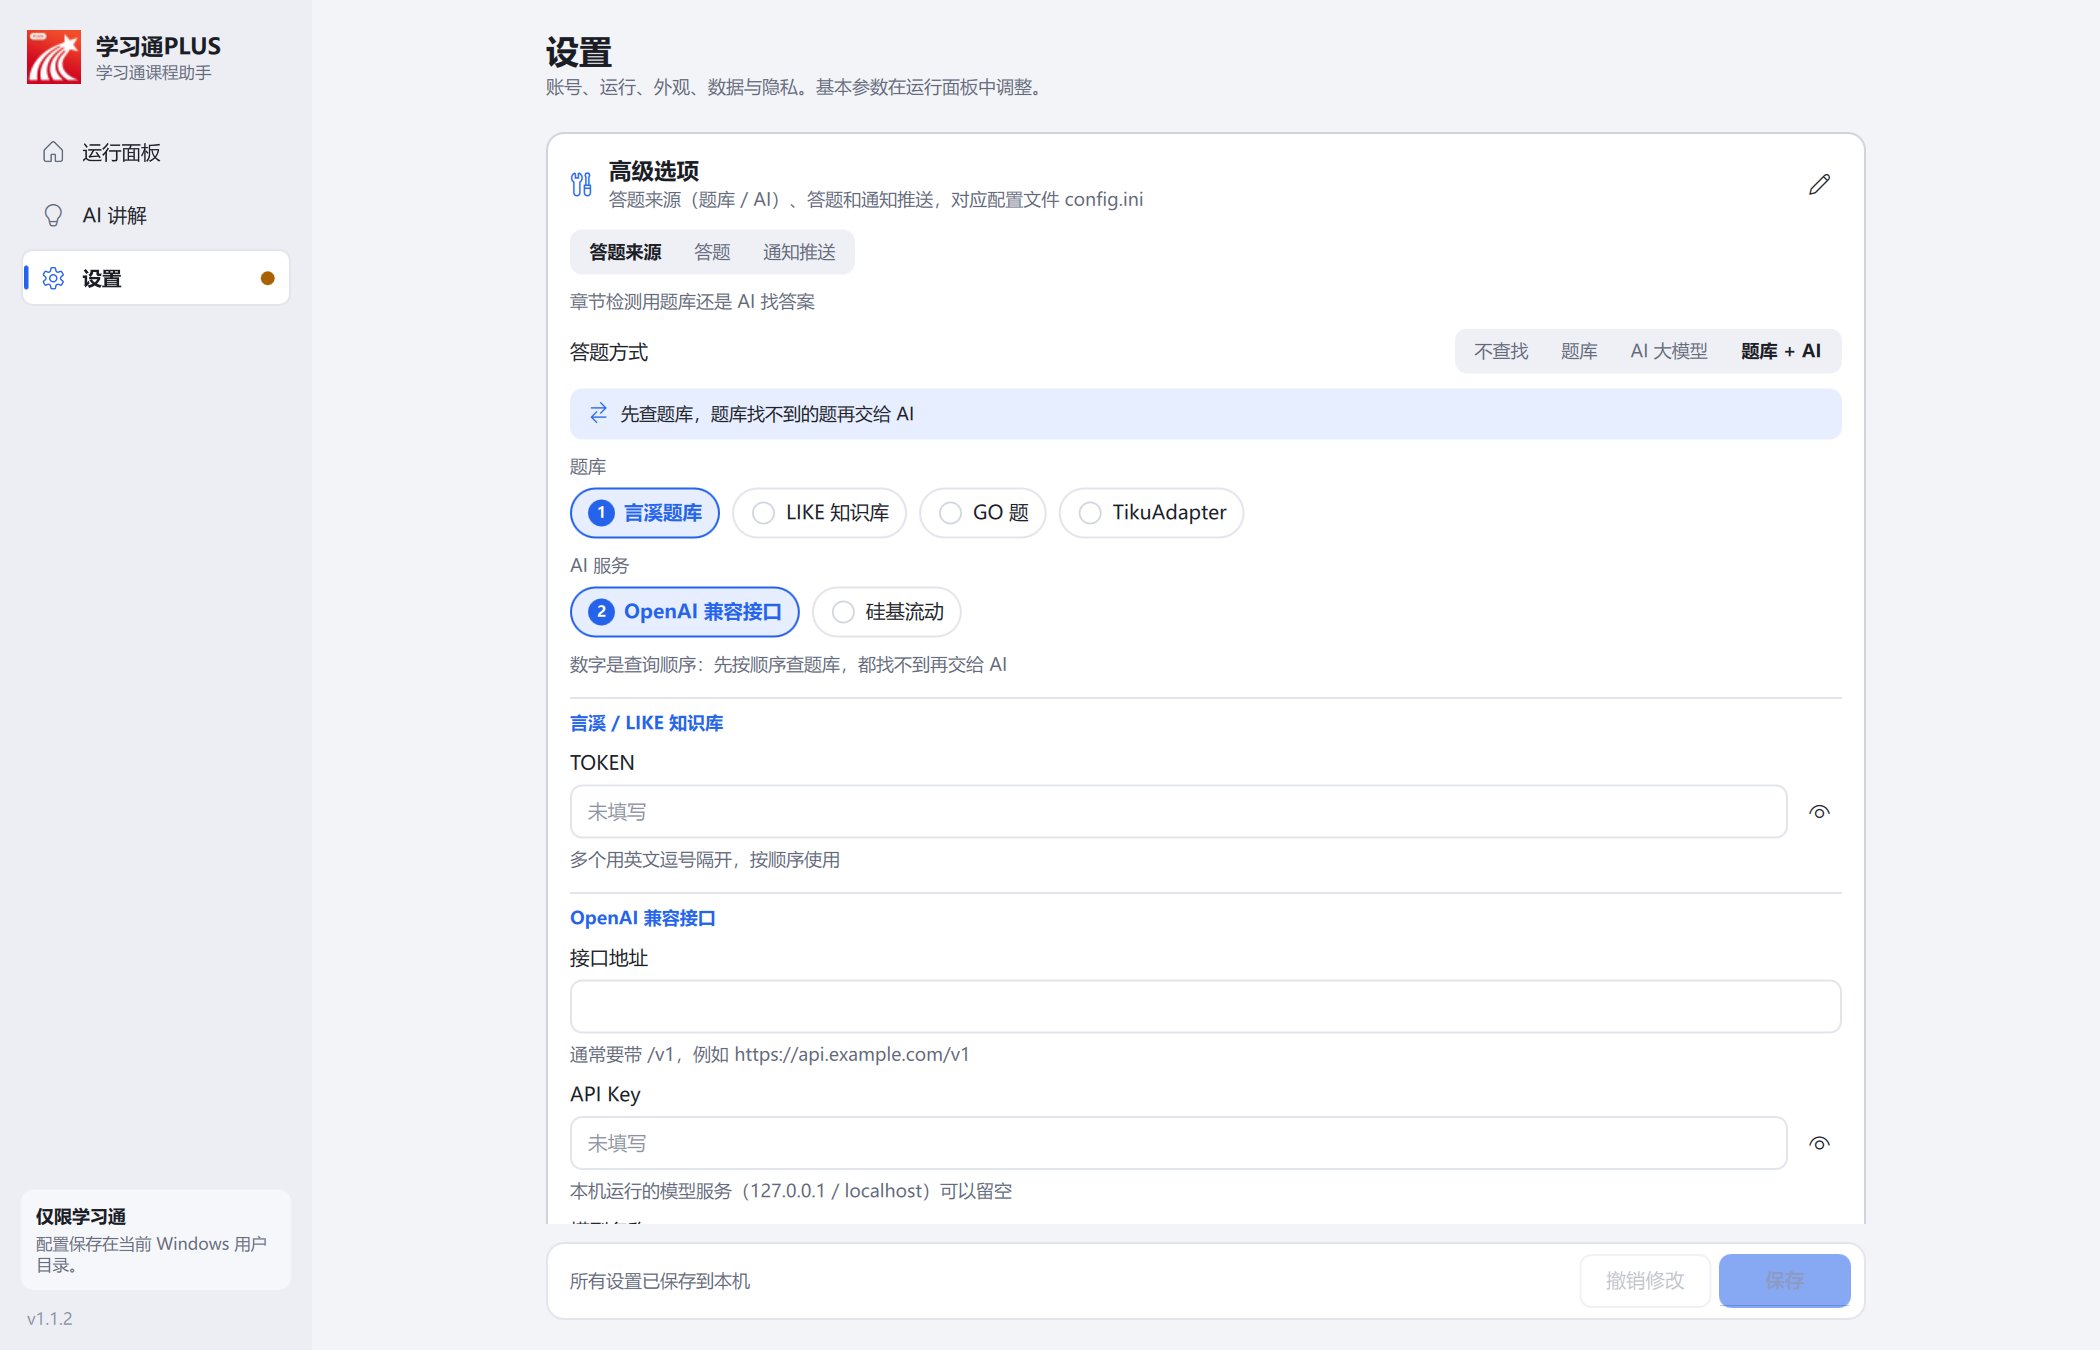
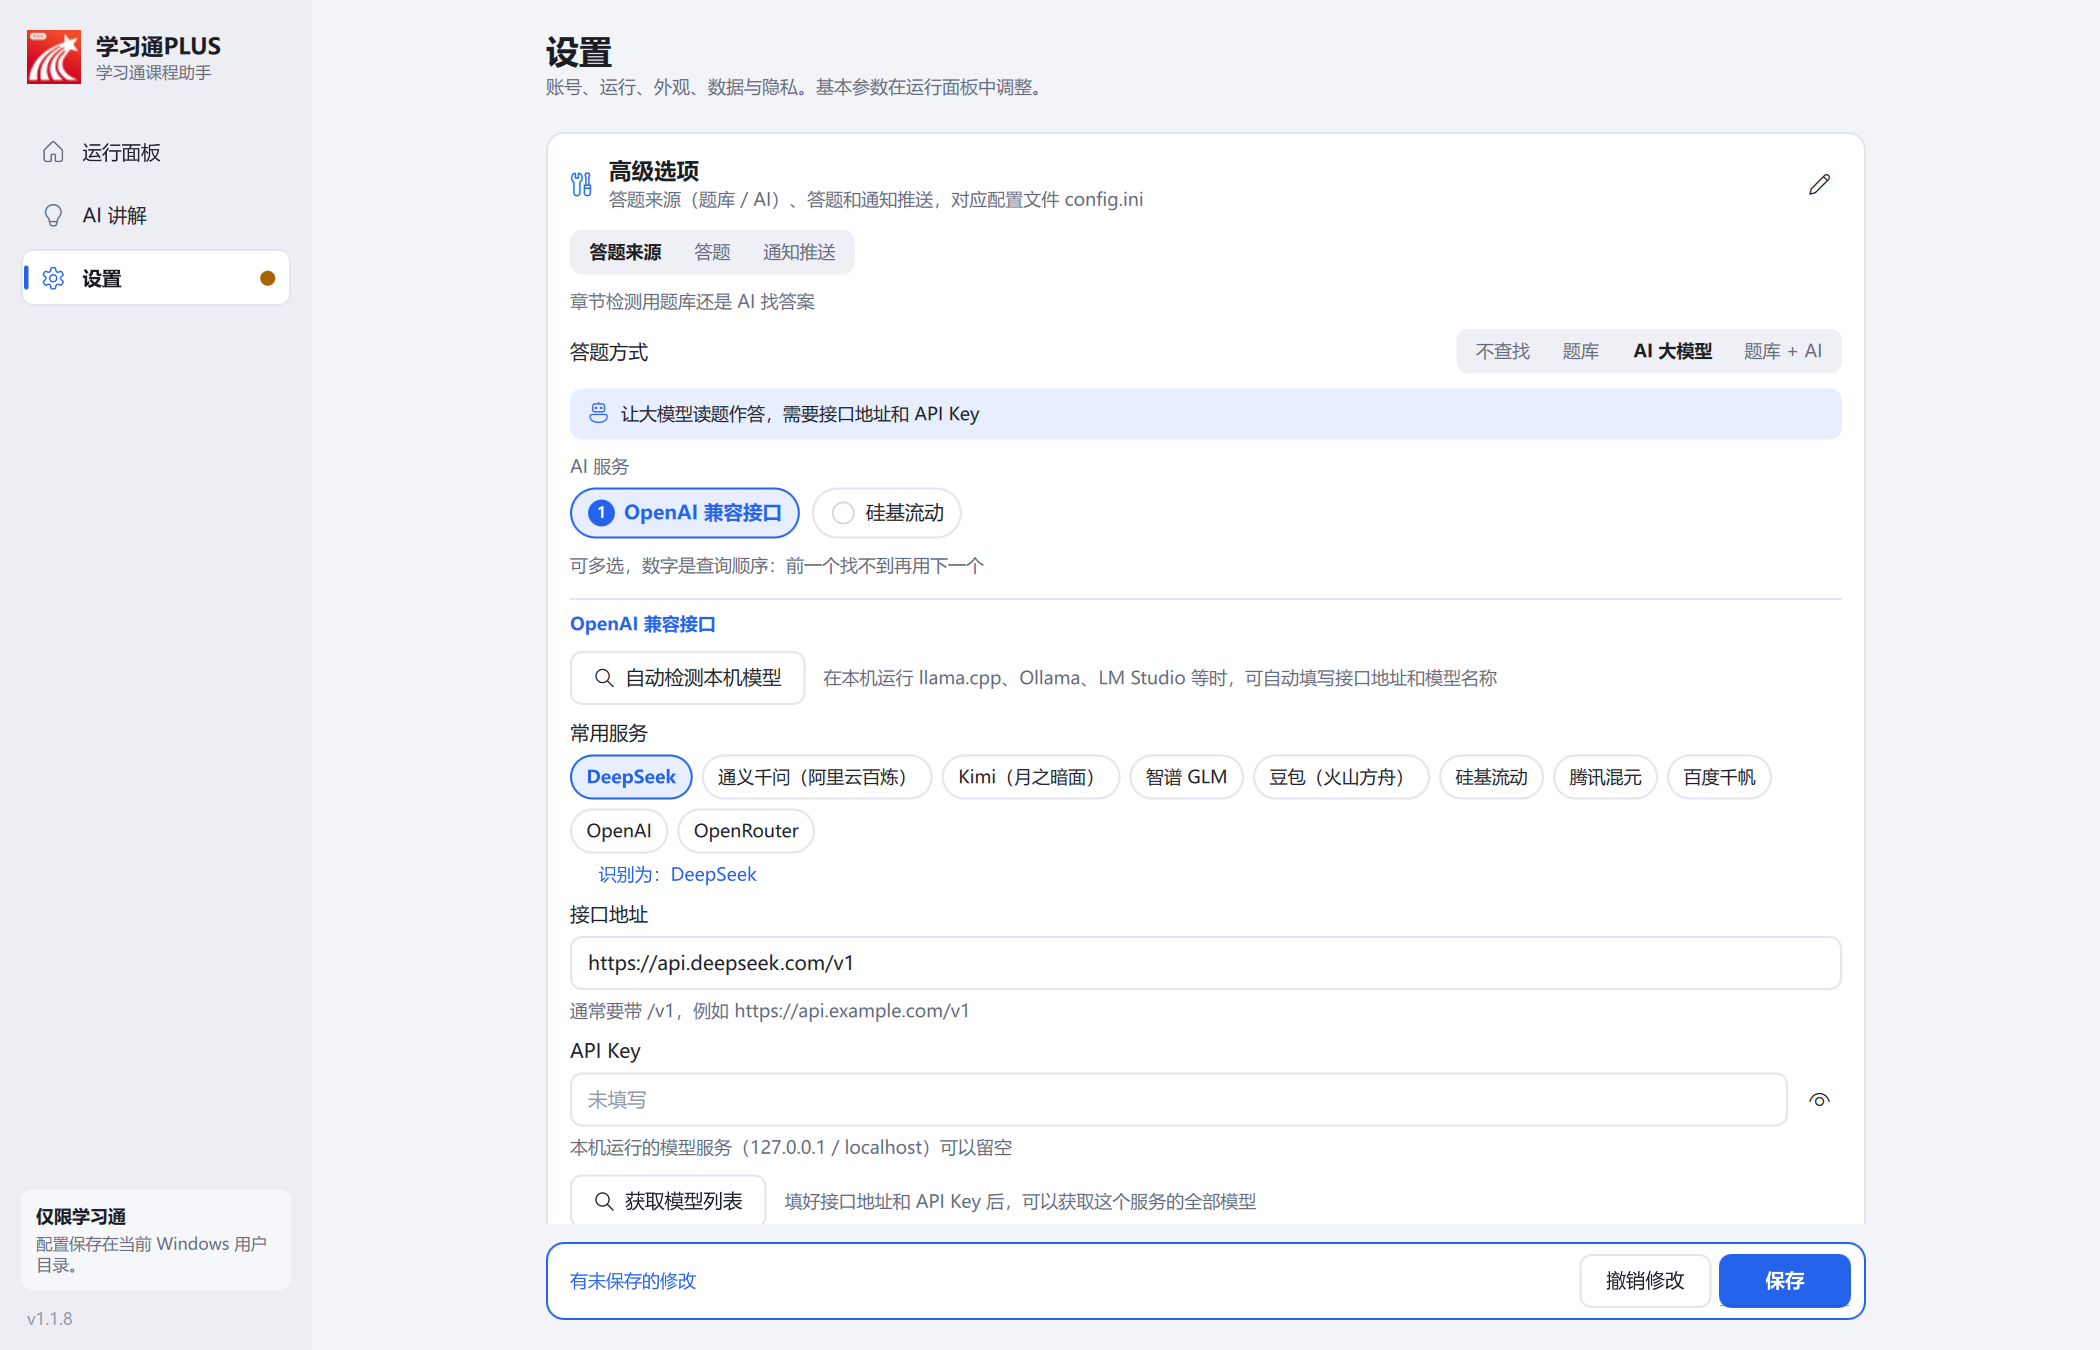
README: homepage intro and usage for 1.1.9
- Intro: everything is configured in the app / first-run guide; AI can be
  a local model (auto-detected) or a cloud provider (recognised, with a
  model list).
- Features: preview follows the task (resumes, 已看完), quiz questions
  show at once with 题库匹配 / AI匹配 / 随机作答 / 查找中, 高级选项 split
  into 答题来源 / 本机模型 / 云端模型 / 答题·通知, AI 讲解 prompt and
  reasoning models, guide re-shown after changes.
- Usage: new "配置答题来源" section with step-by-step 题库 / 本机模型 /
  云端模型 setup and the 75% / submit-on defaults; AI 讲解 notes on
  questions appearing immediately and thinking models.
- Screenshots: answer-source badges, the guide's 高级设置 step, and
  高级选项 with the cloud provider presets (replacing the old one).
- README_DESKTOP (shipped as README.txt): panel and 高级选项 text updated.

diff --git a/README.md b/README.md
@@ -20,7 +20,7 @@
 
 ## 一、软件介绍
 
-学习通PLUS 把原本的命令行工具做成了一个 Windows 桌面应用：所有配置都在界面里完成（包括原来要手改 `config.ini` 的题库、AI 和通知推送），运行状态、当前视频和章节检测实时可见，不用再在终端里输入参数。
+学习通PLUS 把原本的命令行工具做成了一个 Windows 桌面应用：所有配置都在界面里完成（包括原来要手改 `config.ini` 的题库、AI 和通知推送），首次启动的引导就能一次配好；运行状态、当前视频和章节检测实时可见。AI 既可以用本机模型（llama.cpp、Ollama、LM Studio 等，自动检测），也可以用 DeepSeek、通义千问、Kimi、智谱等云端服务（自动识别服务商、列出可用模型）。
 
 <p align="center">
   <img src="docs/media/demo-light.gif" alt="运行演示" width="900">
@@ -31,14 +31,18 @@
 ### 主要特性
 
 - **运行面板**：左侧是仪表盘（当前课程、章节、已完成任务、运行时长）、基本参数、音视频任务进度和可筛选的运行日志。
-- **只读可视化面板**：右侧上半部分是当前任务的视频（静音、不可操作），下半部分是章节检测的题目和填写的答案（标注题库匹配 / 随机作答、覆盖率和提交状态），界面只用于查看。
-- **高级选项**：原来要手动编辑 `config.ini` 的配置都有了界面。答题方式可选“不查找 / 题库 / AI 大模型 / 题库 + AI”，只显示所选来源需要填写的内容（TOKEN、接口地址、API Key、模型等，密钥默认隐藏）；还有提交与覆盖率、查题间隔、答错重做、判断题词表和通知推送（Server酱、Qmsg酱、Bark、Telegram）。开始运行前会检查 AI 配置是否完整，本机模型服务（llama.cpp、Ollama 等）可以不填 Key。
-- **AI 讲解（本地模型）**：用你自己的 GGUF 模型（llama.cpp 的 llama-server）讲解题目的知识点和思路，并给出参考答案。题目可以来自当前章节检测（自动识别课程和章节）、手动粘贴或图片（需要 mmproj）。结果**只给你看，不会自动填写或提交**；每条都需要你审核，只有标记“采纳”的才能复制。支持自动检测 llama-server、连接已运行的服务、连接测试和推理日志。不会自动下载模型。
+- **只读可视化面板**：右侧上半部分是当前任务的视频（静音、不可操作），播放位置和倍速跟任务进度一致，切换页面回来接着播，任务看完显示“已看完”；下半部分是章节检测的题目和填写的答案，题目一读到就先显示，每题标注 **题库匹配 / AI匹配 / 随机作答**（查找时显示“查找中”），以及覆盖率和提交状态。界面只用于查看。
+- **高级选项**：原来要手动编辑 `config.ini` 的配置都有了界面。
+  - **答题来源**：答题方式可选“不查找 / 题库 / AI 大模型 / 题库 + AI”，只显示所选来源需要填写的内容（TOKEN、接口地址、API Key、模型等，密钥默认隐藏）。
+  - **本机模型**：“自动检测本机模型”找到本机运行的 llama.cpp、Ollama、LM Studio、vLLM 等（包括非默认端口），一键填好接口地址和模型名称；本机服务不需要 Key，也不走代理。
+  - **云端模型**：常用服务一键填写接口地址（DeepSeek、通义千问、Kimi、智谱 GLM、豆包、硅基流动、腾讯混元、百度千帆、OpenAI、OpenRouter），任意地址都能自动识别服务商；填好 API Key 后“获取模型列表”，搜索并点选要用的模型。
+  - **答题 / 通知推送**：提交与覆盖率（默认 75%）、查题间隔、答错重做、判断题“正确 / 错误”的写法；Server酱、Qmsg酱、Bark、Telegram 推送。开始运行前会检查必填项。
+- **AI 讲解（本地模型）**：用你自己的 GGUF 模型（llama.cpp 的 llama-server）讲解题目，按“考点 → 逐项分析 → 参考答案”回答；支持会先“思考”的推理型模型（显示思考进度）。题目可以来自当前章节检测（自动识别课程和章节）、手动粘贴或图片（需要 mmproj）。结果**只给你看，不会自动填写或提交**；每条都需要你审核，只有标记“采纳”的才能复制。支持自动检测 llama-server、连接已运行的服务、连接测试和推理日志。不会自动下载模型。
 - **后台运行**：关闭窗口后留在系统托盘，任务继续；托盘菜单可以显示窗口、开始/停止任务、退出。
 - **课程选择**：不填写课程 ID 时，运行后会弹出课程列表供勾选。
 - **Fluent 风格界面**：浅色 / 深色 / 跟随系统，全程动画过渡。
 - **启动画面**：程序在后台加载配置和界面，加载完成后进入主窗口。
-- **首次启动引导**：欢迎 → 免责声明 → 账号 → 高级设置（答题来源、答题、通知推送，与“设置 → 高级选项”相同）→ 开始使用；账号和高级设置都可以稍后再配置。
+- **首次启动引导**：欢迎 → 免责声明 → 账号 → 高级设置（答题来源、答题、通知推送，与“设置 → 高级选项”相同）→ 开始使用；账号和高级设置都可以稍后再配置。引导内容更新后会重新显示一次。
 - **自制安装程序**：按当前用户安装，不需要管理员权限，支持升级；会检查 WebView2 运行时，缺少时从微软官网下载并校验签名后安装。卸载程序与安装程序同样是向导样式，卸载时默认清除账号数据。安装后约 220 MB。
 - **联网更新**：从本仓库的 GitHub Releases 检查新版本，下载后校验 SHA-256 再安装。
 - **数据与隐私**：配置、cookies 和日志只保存在本机 `%APPDATA%\ChaoxingDesktop`；设置里可以一键清除账号数据和运行日志，界面和日志不显示本机路径。
@@ -49,11 +53,15 @@
 | --- | --- |
 | ![运行面板](docs/media/dashboard-quiz-light.png) | ![AI 讲解](docs/media/ai-tutor.png) |
 
-| 深色模式 | 首次启动引导 |
+| 深色模式 | 章节检测：答案来源 |
 | --- | --- |
-| ![深色模式](docs/media/dashboard-quiz-dark.png) | ![免责声明](docs/media/onboarding-disclaimer.png) |
+| ![深色模式](docs/media/dashboard-quiz-dark.png) | ![题库匹配 / AI匹配 / 随机作答](docs/media/quiz-badges.png) |
 
-| 高级选项（答题来源） | 卸载程序 |
+| 首次启动引导 · 免责声明 | 首次启动引导 · 高级设置 |
+| --- | --- |
+| ![免责声明](docs/media/onboarding-disclaimer.png) | ![高级设置](docs/media/onboarding-advanced.png) |
+
+| 高级选项（云端模型 · 常用服务） | 卸载程序 |
 | --- | --- |
 | ![高级选项](docs/media/settings-advanced.png) | ![卸载程序](docs/media/uninstaller.png) |
 
@@ -82,39 +90,47 @@
 1. **欢迎**：了解主要功能。
 2. **免责声明**：阅读声明，并在输入框中完整写一遍，内容一致后才能继续。
 3. **账号**：填写学习通账号和密码，或开启 cookies 登录（把 `cookies.txt` 放入配置目录）。暂时不想填可以点“稍后配置”，之后在 **设置 → 账号** 中填写；没配置前运行面板顶部会一直提醒。
-4. **高级设置**：依次设置答题来源（题库 / AI 大模型 / 题库 + AI，以及对应的 TOKEN 或接口地址、API Key）、答题（提交、覆盖率等）和通知推送。可以点“稍后配置”，之后在 **设置 → 高级选项** 中修改。
+4. **高级设置**：依次设置答题来源、答题和通知推送（做法见下面的“配置答题来源”）。缺少必填项时底部会提示；可以点“稍后配置”，之后在 **设置 → 高级选项** 中修改。
 5. **开始使用**：进入运行面板。
 
 ### 3. 运行任务
 
 1. 在运行面板左侧的 **基本参数** 里设置课程 ID（留空则运行时选择）、视频速度、并行章节数和未开放章节的处理方式。
 2. 点击 **开始运行**。参数会自动保存，运行期间锁定。
-3. 在左侧查看进度和日志，在右侧可视化面板查看当前视频或章节检测内容。
+3. 在左侧查看进度和日志，在右侧可视化面板查看当前视频（与任务进度同步）和章节检测的题目、答案来源。
 4. 需要时点击 **停止**。
 
 其他选项在 **设置** 页：账号、重试间隔、运行结束提醒、章节学习次数、**高级选项**、主题和动画、数据与隐私（清除账号数据 / 运行日志、恢复默认设置）。
 
-**高级选项** 分三页：
+### 4. 配置答题来源（设置 → 高级选项 → 答题来源）
 
-- **答题来源**：选择答题方式（不查找 / 题库 / AI 大模型 / 题库 + AI），勾选具体的题库或 AI 服务（数字是查询顺序），再填写对应的 TOKEN、接口地址、API Key、模型名称。接口地址填到 `/v1` 即可；本机运行的模型服务不需要 Key，也不要填代理。
-- **答题**：达到覆盖率时是否提交、最低覆盖率、查题间隔、答错后是否重做、判断题“正确 / 错误”的写法。
-- **通知推送**：任务结束或出错时推送到手机。
+先选 **答题方式**：不查找 / 题库 / AI 大模型 / 题库 + AI（先查题库，找不到再交给 AI）。勾选的题库或 AI 服务上的数字是查询顺序。
+
+- **题库**：选择言溪、LIKE 知识库、GO 题或 TikuAdapter，填写对应的 TOKEN、授权码或服务地址。
+- **本机模型**（llama.cpp、Ollama、LM Studio 等）：先启动模型服务，在“OpenAI 兼容接口”下点 **自动检测本机模型**，在找到的模型后面点 **使用**，接口地址和模型名称就填好了。本机服务不需要 API Key，也不要填代理。
+- **云端模型**：
+  1. 在 **常用服务** 里点服务商（如 DeepSeek、通义千问），或自己填写接口地址（填到 `/v1` 即可，不要带 `/chat/completions`）；下方会显示“识别为：服务商”。
+  2. 填写在服务商控制台申请的 **API Key**。
+  3. 点 **获取模型列表**，在列表里搜索并点选要用的模型；也可以直接填写模型名称。
+  4. 需要翻墙访问的服务才填“代理”。
+
+**答题** 页：达到覆盖率时是否提交（默认开启）、最低覆盖率（默认 75%）、查题间隔、答错后是否重做、判断题“正确 / 错误”的写法。**通知推送** 页：任务结束或出错时推送到手机。
 
 改完点底部的 **保存**。仍然可以点高级选项右上角的按钮直接编辑 `config.ini`，各配置项的含义见 [docs/CLI.md](docs/CLI.md)。
 
-### 4. AI 讲解（可选）
+### 5. AI 讲解（可选）
 
 1. 准备好 [llama.cpp](https://github.com/ggml-org/llama.cpp) 的 `llama-server.exe` 和一个 GGUF 模型文件（程序不会下载模型）。
 2. 打开左侧 **AI 讲解**，在“模型设置”里选择 llama-server（留空会自动检测）和模型文件；图片题还需要选择 mmproj 文件。也可以改为“连接已运行的服务”，填写地址。
 3. 点击 **启动模型**，就绪后可以先做一次 **连接测试**。
-4. 在“题目”里选择当前章节检测的题目，或手动粘贴 / 选择图片，点击 **讲解**。
+4. 在“题目”里选择当前章节检测的题目（运行到章节检测时题目会立刻出现），或手动粘贴 / 选择图片，点击 **讲解**。推理型模型会先显示“正在思考…”，如果提示用完了最大输出 token，在模型设置里调大即可。
 5. 核对解析和参考答案后，点击 **采纳** 或 **有误**（可写备注）；采纳后才能复制。所有结果保存在本机历史记录里。
 
-### 5. 更新
+### 6. 更新
 
 程序启动时会自动检查新版本（可在 **设置 → 关于** 关闭），也可以手动点击“检查更新”。发现新版本后点击“下载并安装”即可，配置和账号不受影响。
 
-### 6. 卸载
+### 7. 卸载
 
 在 Windows **设置 → 应用** 中找到 学习通PLUS 卸载，或运行安装目录中的 `学习通PLUS.exe --uninstall`。卸载向导依次为 确认 → 卸载选项 → 正在卸载 → 完成；默认勾选“清除账号数据（账号、密码、cookies）”，也可以选择删除全部配置、日志和界面设置。
 

diff --git a/README_DESKTOP.md b/README_DESKTOP.md
@@ -21,13 +21,18 @@
 
 - 左栏：当前课程、当前章节、已完成任务数和运行时长；音视频任务进度；运行日志（可按信息/警告/错误筛选、复制、清空、收起）。
 - 右栏：只读可视化面板。
-  - “视频”：静音播放当前学习通视频，没有播放控件、进度条或交互入口，使用 Windows WebView2 运行时。
-  - “答题”：显示章节检测的题目、选项和程序填写的答案，并标注答案来自题库匹配还是随机作答，以及题库覆盖率和提交状态。面板只用于查看，不能点选或修改。
-  - 面板会跟随当前任务自动切换，也可以手动切换查看。
+  - 上方“视频”：静音播放当前学习通视频，播放位置和倍速跟任务进度一致，切换页面回来会接着播，任务看完显示“已看完”。没有播放控件或交互入口，使用 Windows WebView2 运行时。
+  - 下方“章节检测”：题目一读到就显示，答案查找中标“查找中”，填好后标注 题库匹配 / AI匹配 / 随机作答，以及题库覆盖率和提交状态。面板只用于查看，不能点选或修改。
 
 ### 设置
 
-账号、cookies 登录、重试间隔、章节学习次数、外观（跟随系统 / 浅色 / 深色）和关于信息。
+账号、cookies 登录、重试间隔、章节学习次数、高级选项、外观（跟随系统 / 浅色 / 深色）、数据与隐私和关于信息。
+
+高级选项（与开始引导里的“高级设置”相同）：
+
+- 答题来源：答题方式（不查找 / 题库 / AI 大模型 / 题库 + AI）。本机模型可点“自动检测本机模型”一键填写；云端模型可在“常用服务”里选择服务商（DeepSeek、通义千问、Kimi、智谱 GLM 等），填写 API Key 后点“获取模型列表”选择模型。
+- 答题：达到覆盖率时提交（默认开启）、最低覆盖率（默认 75%）、查题间隔、答错重做、判断题“正确 / 错误”的写法。
+- 通知推送：Server酱、Qmsg酱、Bark、Telegram。
 
 程序配置、cookies 和日志保存在 `%APPDATA%\ChaoxingDesktop`，可在“设置 → 关于”中点击“打开配置目录”直接访问。账号密码以明文保存在本机的 `config.ini` 中。
 
